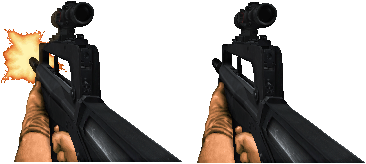
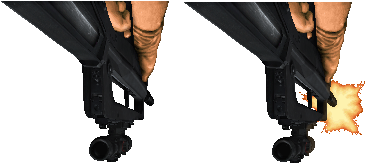
d8 iteration 2 u

diff --git a/digital-a8_2/js/main.js b/digital-a8_2/js/main.js
@@ -74,7 +74,7 @@ music.loop=true;
     dude.height-=10
     dude.immovable= true;
 
-  gun = game.add.sprite(750, 550, 'gsp');
+  gun = game.add.sprite(770, 560, 'gsp');
      game.physics.enable(gun, Phaser.Physics.ARCADE);
      gun.anchor.setTo(0.5, 0.5);
     gun.angle +=20
@@ -89,8 +89,8 @@ music.loop=true;
     // bricks2.create(150,50, 'bricks');
     player = game.add.sprite(game.world.randomX, 0, 'aim');
 
-      gun.animations.add('a', [1],true,  true);
-      gun.animations.add('b', [1,0,1],40,false, true);
+      gun.animations.add('a', [0],true,  true);
+      gun.animations.add('b', [0,1,0],40,false, true);
 
 
      game.physics.enable(player, Phaser.Physics.ARCADE);
@@ -193,6 +193,20 @@ game.state.start(game.state.current);
 }
 
 function update() {
+  console.log(gun.rotation )
+
+ let ang=  game.physics.arcade.angleToPointer(gun);
+  if(ang <=-1.5 && ang >=-3) {
+      gun.rotation = game.physics.arcade.angleToPointer(gun);
+
+    }
+    else if (ang >=-1.65 && gun.rotation<1.5){
+      gun.rotation = -1.6
+    }
+    else {
+      gun.rotation = 2.6
+    }
+
   if(bullet.x <0 || bullet.x >800 ) {
     bullet.visible = false;
 
